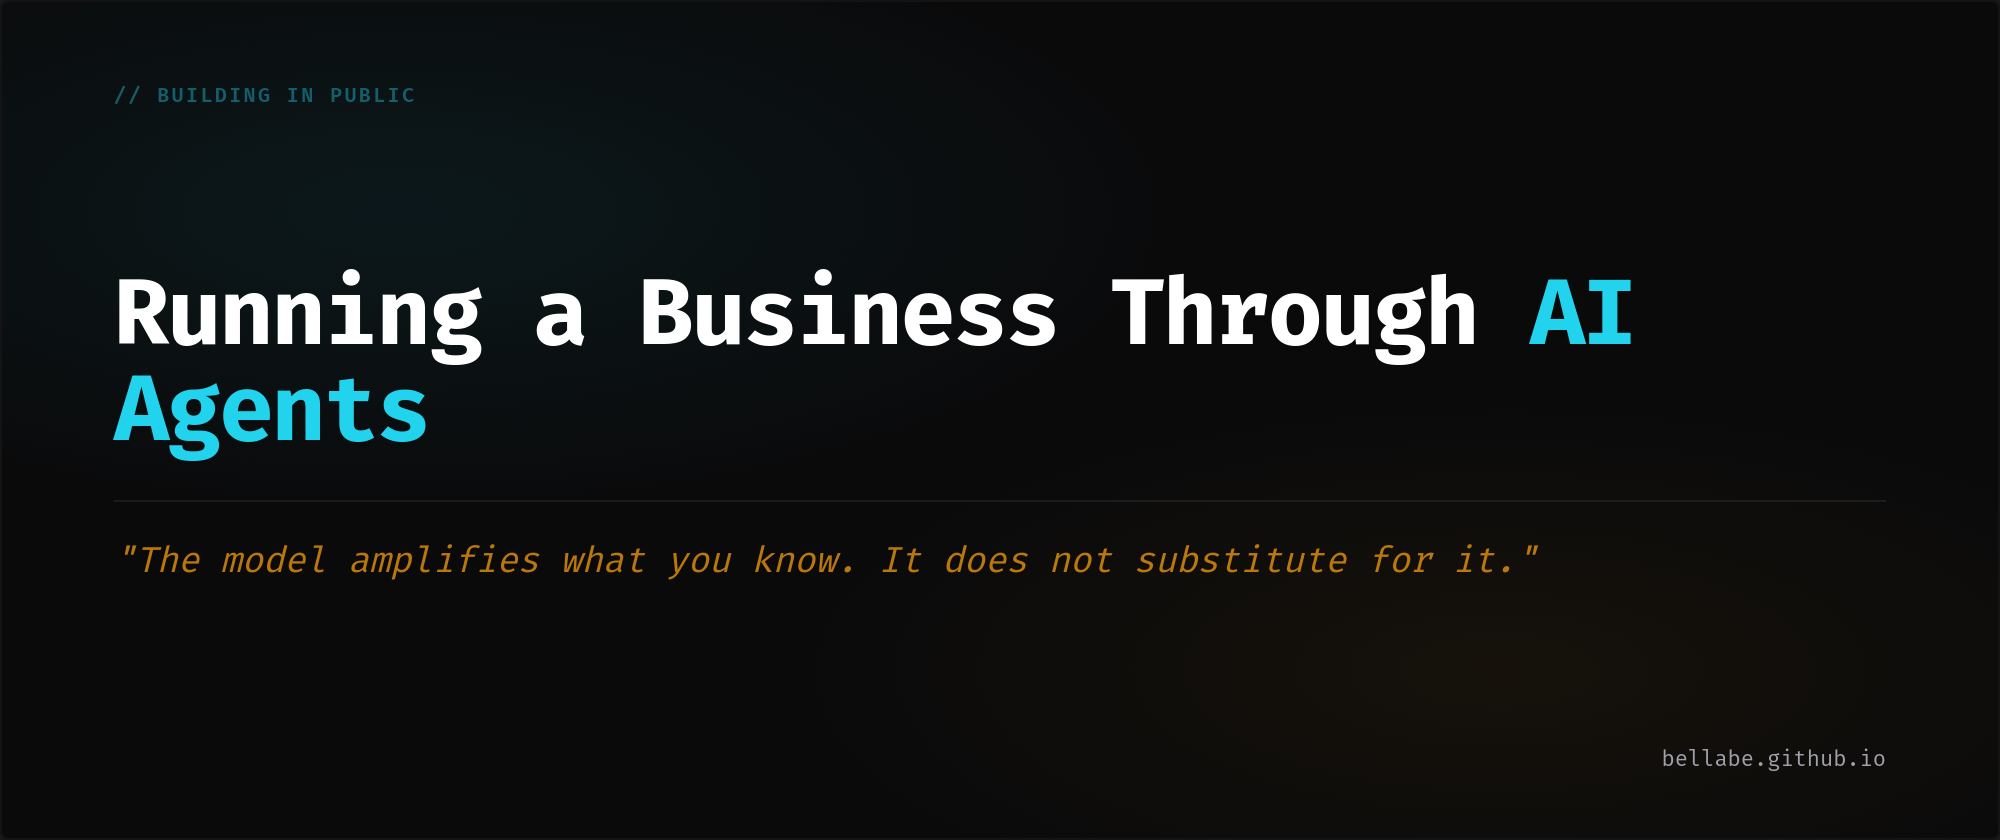
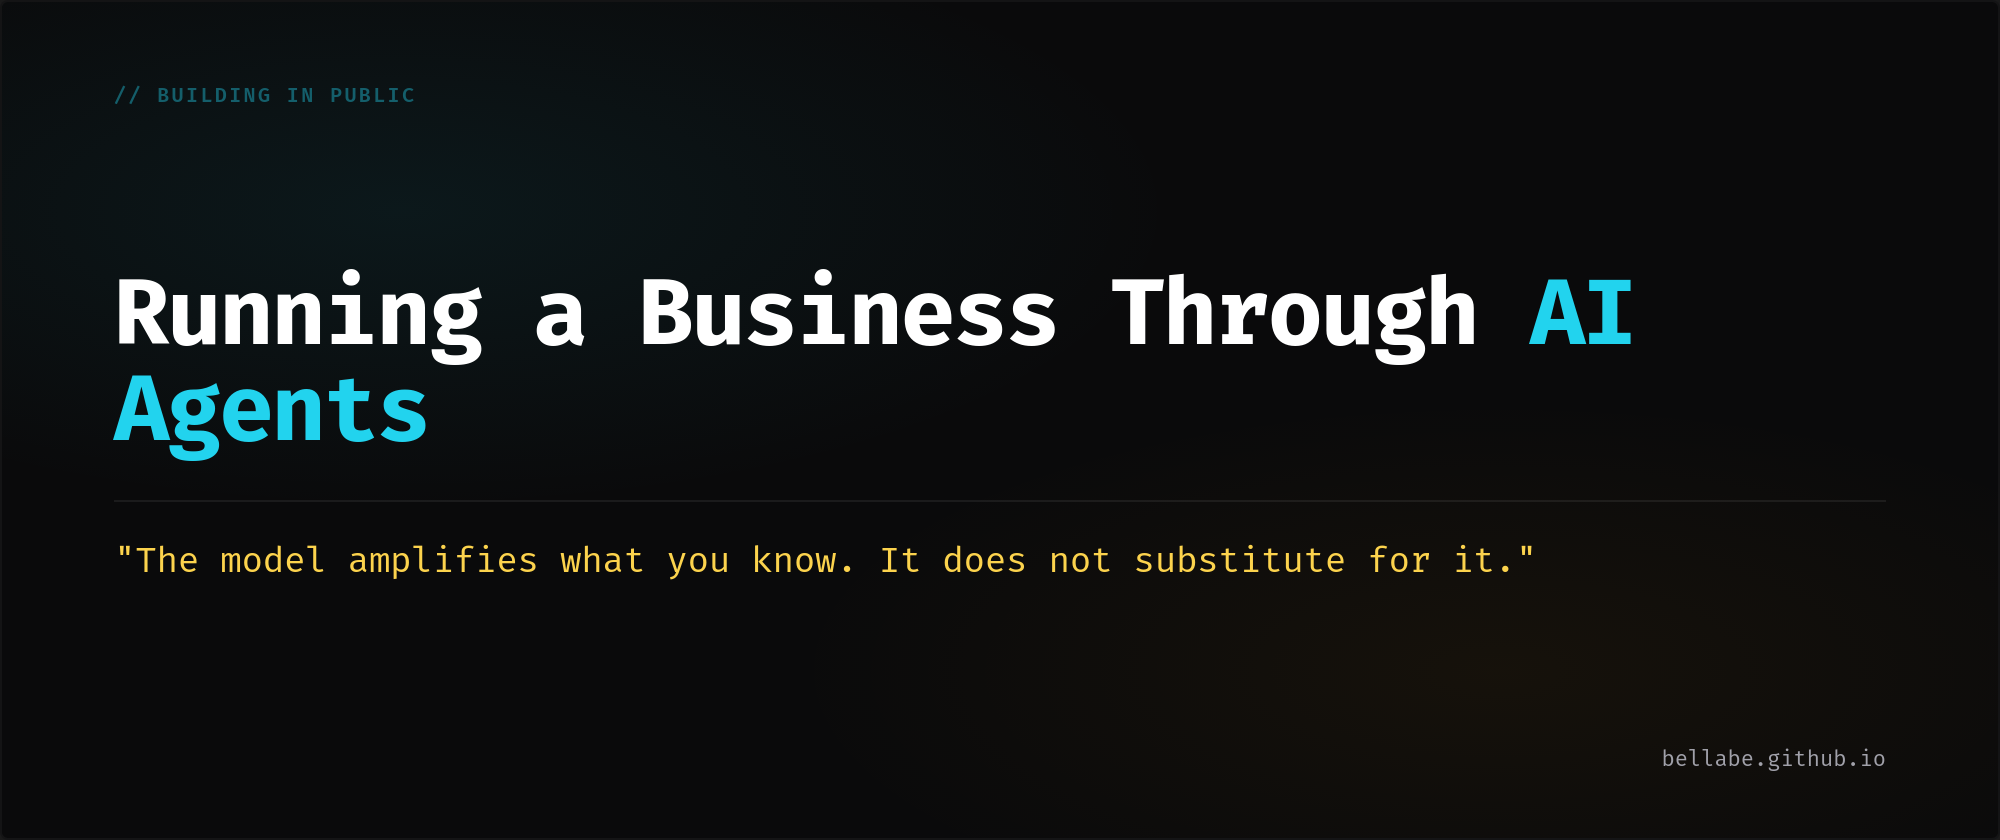
Fix a3 cover — no italic, lighter quote color, new URL for LinkedIn OG refresh
- Re-render a3-cover.png (1200×630) and a3-cover-devto.png (1000×420) with
  font-style: italic removed and quote color updated from amber to #fcd34d
- Add a3-cover-v2.png as new filename to force LinkedIn OG cache refresh
- Update article frontmatter image: → /assets/images/a3-cover-v2.png

Changed region(s): [[0.062, 0.65, 0.775, 0.681]]

diff --git a/_posts/2026-02-07-what-i-learned-running-a-business-through-ai-agents.md b/_posts/2026-02-07-what-i-learned-running-a-business-through-ai-agents.md
@@ -5,7 +5,7 @@ date: 2026-02-07
 description: "Four things that actually determine whether AI-operated business works — instructions, architecture, system thinking, and where the real bottleneck is."
 reading_time: 6
 tags: [ai, agents, operations, solo-founder, build-in-public]
-image: /assets/images/a3-cover.png
+image: /assets/images/a3-cover-v2.png
 ---
 
 I operate my business through 15 agents and 172 skills. Not as a test. As the production system. Strategy, market, revenue, intelligence — all running through agents daily.
